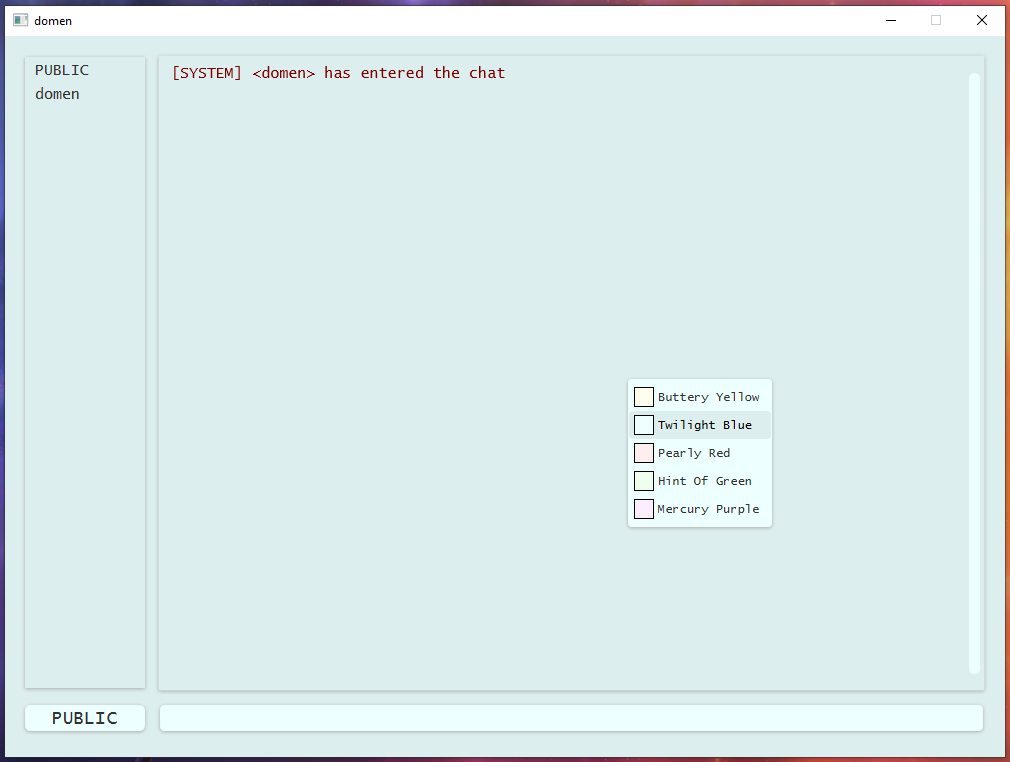
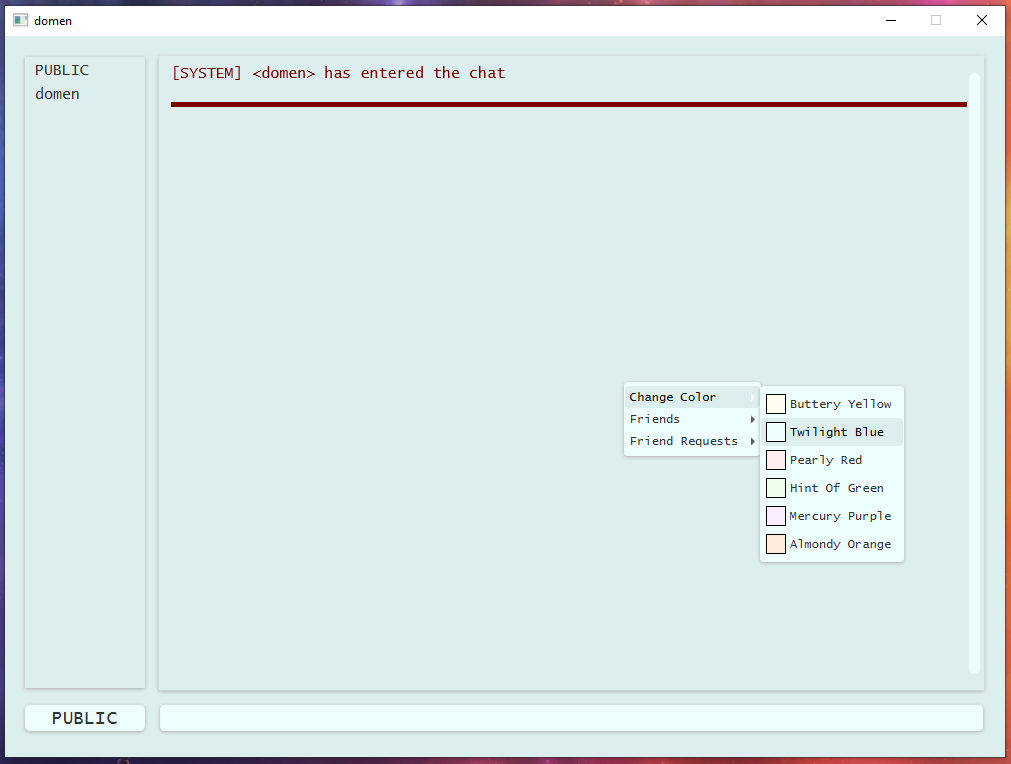
finished the Manual + last touches on the src code (there was an error not allowing fresh accounts do anything friends related now fixed). Tommorow Ill make the 1.0.1 version video + release notes for the 1.0.1 + other last touches on the md's. THEN DEPLOY NEW 1.0.1

diff --git a/src/Server/ChatServer.java b/src/Server/ChatServer.java
@@ -417,7 +417,7 @@ public class ChatServer {
         };
 
         // we check if they are already friends
-        boolean alreadyFriends = this.getFriendsList(user1).containsKey(user2);
+        boolean alreadyFriends = (this.getFriendsList(user1) != null && this.getFriendsList(user1).containsKey(user2));
         if (alreadyFriends) {
 
             return false;
@@ -1044,7 +1044,7 @@ class ChatServerConnector extends Thread {
                 }
                 else if (request.getTip() == 996) { // sendFriendRequest
 
-                    boolean alreadyFriends = this.server.getFriendsList(request.getSender()).containsKey(request.getOtherInfo());
+                    boolean alreadyFriends = (this.server.getFriendsList(request.getSender()) != null && this.server.getFriendsList(request.getSender()).containsKey(request.getOtherInfo()));
                     boolean selfFriend = request.getSender().equals(request.getOtherInfo());
                     boolean newFriendRequest = (alreadyFriends || selfFriend) ? false : this.server.sendFriendRequest(request.getSender(), request.getOtherInfo());
 
@@ -1065,7 +1065,7 @@ class ChatServerConnector extends Thread {
                 }
                 else if (request.getTip() == 997) { // removeFriendRequest Request
 
-                    boolean friendRequestExists = this.server.getFriendRequestList(request.getSender()).contains(request.getOtherInfo());
+                    boolean friendRequestExists = (this.server.getFriendRequestList(request.getSender()) != null && this.server.getFriendRequestList(request.getSender()).contains(request.getOtherInfo()));
 
                     this.server.removeFriendRequest(request.getOtherInfo(), request.getSender());
                     msg_send = (friendRequestExists)
@@ -1081,7 +1081,7 @@ class ChatServerConnector extends Thread {
                 }
                 else if (request.getTip() == 998) { // removeFriend Request
 
-                    boolean areFriends = this.server.getFriendsList(request.getSender()).containsKey(request.getOtherInfo());
+                    boolean areFriends = (this.server.getFriendsList(request.getSender()) != null && this.server.getFriendsList(request.getSender()).containsKey(request.getOtherInfo()));
 
                     this.server.removeFriendship(request.getSender(), request.getOtherInfo());
                     msg_send = (areFriends)

diff --git a/Manuals/Manual.md b/Manuals/Manual.md
@@ -64,6 +64,8 @@ Here you can select if you want to run the Server or the app and then run them b
 - Go to src/Server/ChatServer.java and change the path, underlined in the image below, to the path of your repository. Make sure to include "src/Server/db"\
 ![alt text](media/dep6.png)
 
+Keep in mind that it might take a little time for the program to work. I recommend that you open the *ChatServer.java* and *ChatClient.java* files and wait a minute for them to load. I conducted an experiment on another laptop by following the Installation section of this manual. That laptop was not very powerful and needed some time. Initially, I encountered errors on the client side for about one minute, but then the errors stopped, and the program worked.
+
 ## HOW TO USE
 
 To run the application:
@@ -90,9 +92,9 @@ When you first open the application, you will see the login/signup menu, built i
 - **Login**: Choose an account and password from src/Server/db/users/.\
 ![alt text](media/client1.png)
 - **Signup**: Input your username and password, which will be saved to the server's database.\
-![alt text](media/client2.png) 
+![alt text](media/client2.png)
 
-After logging in, you will see the main application. In version 1.0.0, the available actions and functionalities are:
+After logging in, you will see the main application. In version 1.0.1, the available actions and functionalities are:
 - [MESSAGES](#messages)
     - [PUBLIC MESSAGES](#public-messages)
     - [PRIVATE MESSAGES](#private-messages)
@@ -100,6 +102,7 @@ After logging in, you will see the main application. In version 1.0.0, the avail
 - [ACTIONS](#actions)
     - [HISTORY](#history)
     - [COLOR](#color)
+    - [FRIENDS](#friends)
 
 #### MESSAGES
 
@@ -136,11 +139,36 @@ History with a user is a collection of your previous conversations with them, sa
 
 ##### COLOR
 
-By right-clicking anywhere outside the menu, you can change the color of the application. There are currently five colors to choose from:
+By right-clicking anywhere outside the menu and hovering over the *Change Color* section, you can change the color of the application. There are currently six colors to choose from:
 - Buttery Yellow (the original/default color)
 - Twilight Blue
 - Pearly Red
 - Hint Of Green
 - Mercury Purple
-  
+- Almondy Orange
+
 ![alt text](media/actions4.png)
+
+##### FRIENDS
+
+Friends is a feature released in version 1.0.1. It allows you to permanently add or remove friends and perform actions through the context menu of the application. You can add friends by right-clicking on a user in the left online user list and selecting *Send Friend Request*. The friend request will be saved on the receiver's account until they accept or decline it.
+
+![alt text](media/actions5.png)
+
+You can see your friends or friend requests by right-clicking and hovering over the *Friends* or *Friend Request* section. If your friend is online, a friend symbol will appear in front of their name in the online user list on the left. The current actions available between friends are:
+- Unfriend
+- Send private message
+- Show history
+
+![alt text](media/actions6.png)
+![alt text](media/actions7.png)
+
+You can also get system messages related to the friends feature upon login. These messages can be:
+- A reminder if you have more than one pending friend request
+- Information about friends-related activity while you were offline, such as:
+  - Receiving a new friend request
+  - Someone declining your friend request
+  - Someone accepting your friend request
+  - Someone unfriending you
+
+![alt text](media/actions8.png)

diff --git a/releaseNotesPlaceholder.md b/releaseNotesPlaceholder.md
@@ -1,0 +1,35 @@
+(DELETE ME: To dej pol k bos naredu v Releases.md spodi)
+
+# RELEASE 1.0.1
+
+**1.0.1 IS HERE!** This is the 2nd release of my chatRoom application. 
+
+## NEW FEATURES:
+
+### FRIEND?
+- **Account Creation**
+- **Public Messages:**
+- **Private Messages**
+- **Message History Save File:**
+  - View your private message history with any user.
+  - Access messages sent to you while you were offline upon your next login.
+- **Customizable GUI, colors:**
+  - Buttery Yellow
+  - Twilight Blue
+  - Pearly Red
+  - Hint Of Green
+  - Mercury Purple
+
+### NEW COLOR!
+
+### TBD
+
+## QOL AND BUGS
+
+### QOL
+
+### BUGS
+
+---
+
+For detailed instructions on using the application, refer to the [MANUAL](/Manuals/Manual.md)
